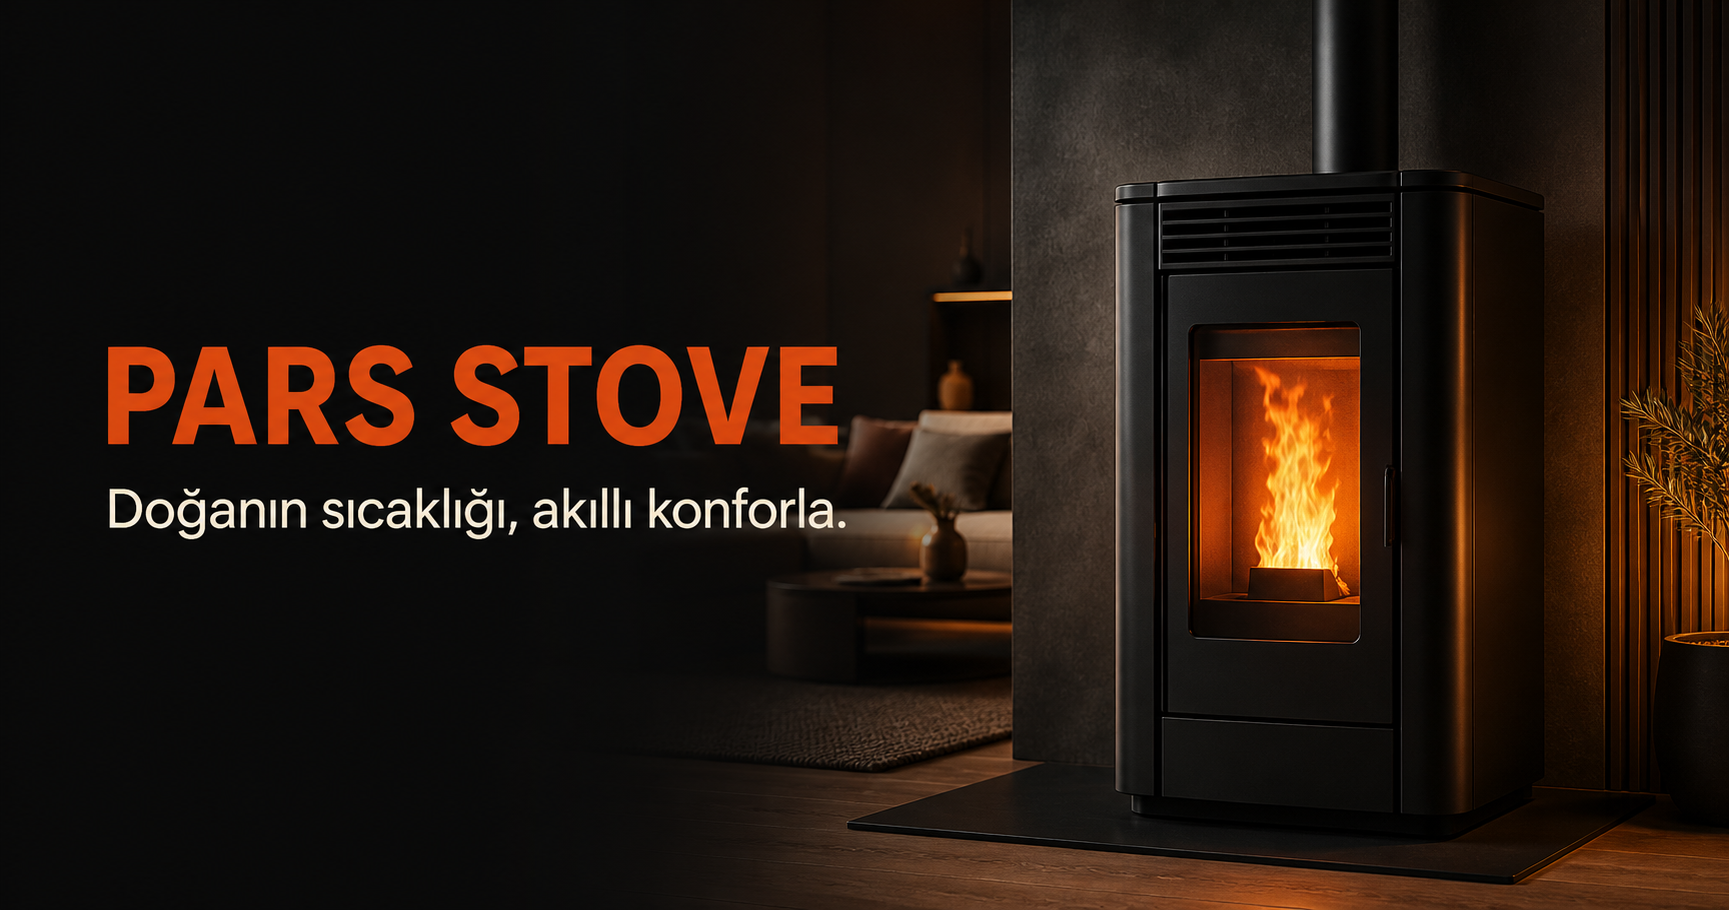
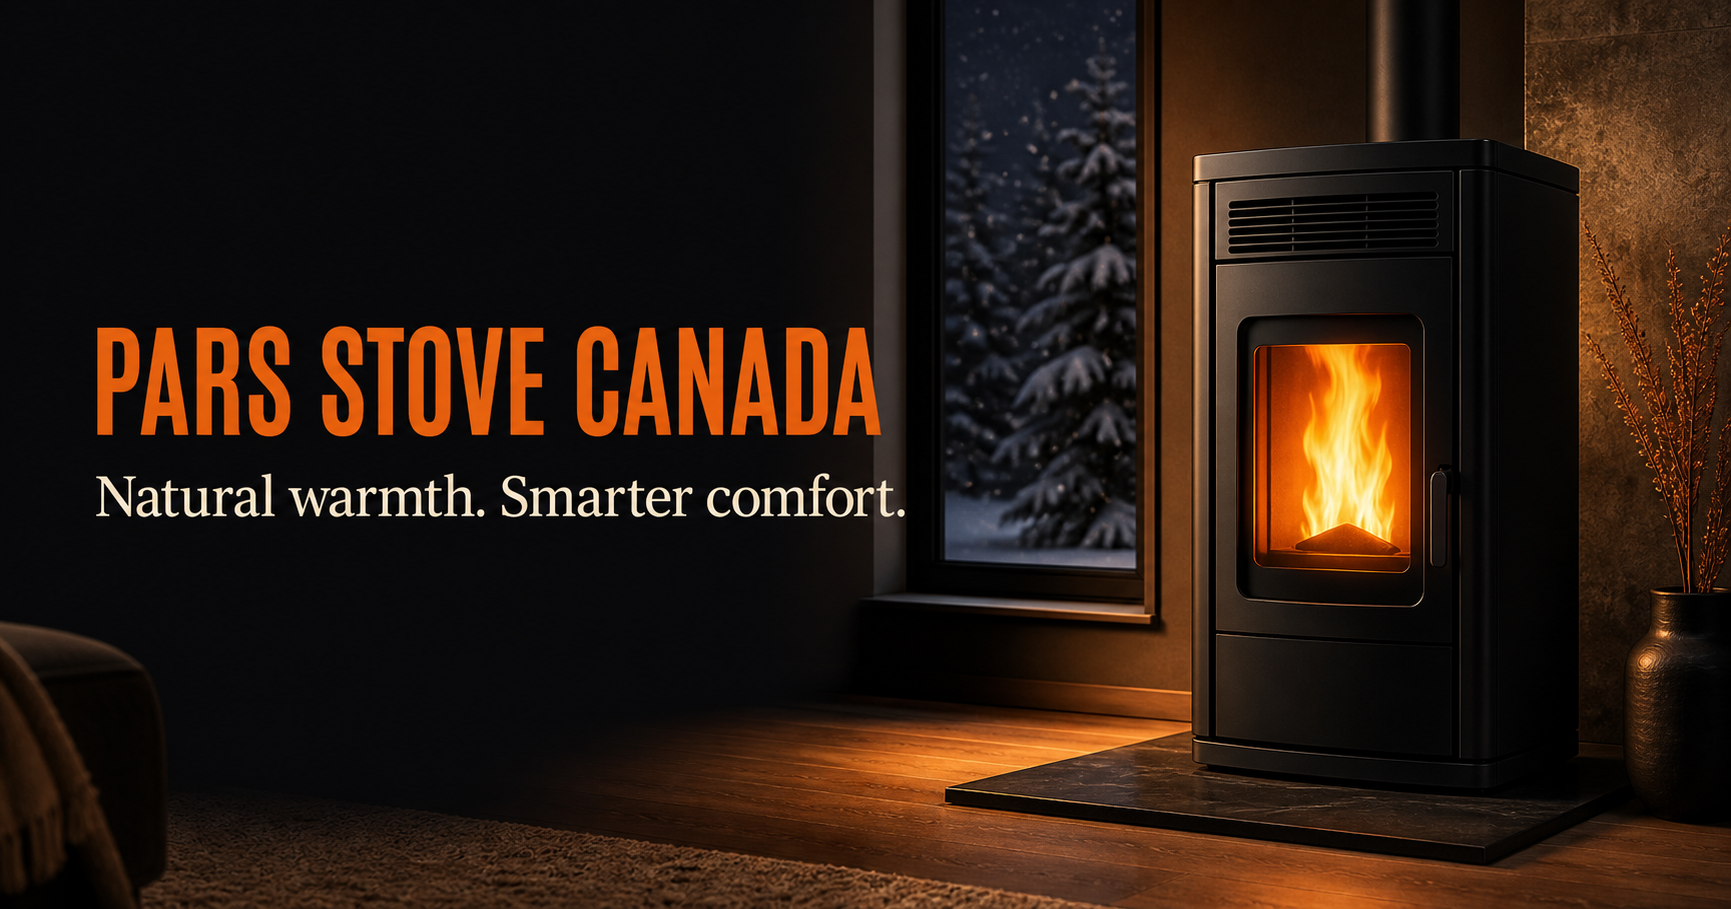
Localize Pars Stove for Canada

diff --git a/app/page.tsx b/app/page.tsx
@@ -3,16 +3,16 @@
 import { useState } from "react";
 
 const products = [
-  { name: "Pars P8 Compact", heat: "8 kW", area: "60–90 m²", price: "49.900 ₺", badge: "Çok Satan", tone: "graphite" },
-  { name: "Pars P12 Vision", heat: "12 kW", area: "90–130 m²", price: "64.900 ₺", badge: "Yeni", tone: "sand" },
-  { name: "Pars P18 Hydro", heat: "18 kW", area: "140–190 m²", price: "89.900 ₺", badge: "Kaloriferli", tone: "forest" },
+  { name: "Pars P8 Compact", heat: "27,000 BTU", area: "650–970 sq. ft.", price: "$3,499 CAD", badge: "Best Seller", tone: "graphite" },
+  { name: "Pars P12 Vision", heat: "41,000 BTU", area: "970–1,400 sq. ft.", price: "$4,599 CAD", badge: "New", tone: "sand" },
+  { name: "Pars P18 Hydro", heat: "61,000 BTU", area: "1,500–2,050 sq. ft.", price: "$6,299 CAD", badge: "Hydronic", tone: "forest" },
 ];
 
 const faqs = [
-  ["Evim için doğru sobayı nasıl seçerim?", "Metrekare, yalıtım ve bulunduğunuz bölgeye göre öneri sunuyoruz. Ücretsiz keşif formunu doldurmanız yeterli."],
-  ["Kurulum fiyata dahil mi?", "Standart kurulum paketleri ürün sayfasında açıkça belirtilir. Baca veya tesisat ihtiyacına göre ek fiyat önceden paylaşılır."],
-  ["Pellet sobası ne kadar yakıt tüketir?", "Kullanım kademesi ve yalıtıma bağlı olarak ortalama saatte 0,6–2,2 kg pellet tüketir."],
-  ["Teslimat ne kadar sürer?", "Stoklu ürünler Türkiye genelinde ortalama 3–7 iş gününde sevk edilir."],
+  ["How do I choose the right stove for my home?", "We recommend a model based on your square footage, insulation, climate zone, and local code requirements. Start with our free consultation."],
+  ["Is installation included?", "Standard installation options are shown on each product page. Any venting or electrical work is quoted clearly before your appointment."],
+  ["How much fuel does a pellet stove use?", "Depending on the heat setting and insulation, typical consumption is approximately 0.6–2.2 kg of pellets per hour."],
+  ["How long does delivery take?", "In-stock models typically ship within 3–7 business days in our Canadian service areas. Remote-area timing may vary."],
 ];
 
 function Flame() {
@@ -30,54 +30,54 @@ export default function Home() {
 
   return (
     <main>
-      <div className="topbar"><span>Türkiye geneli ücretsiz kargo</span><span>•</span><span>Peşin fiyatına 6 taksit</span><span>•</span><span>0850 555 72 77</span></div>
+      <div className="topbar"><span>Free shipping in select Canadian regions</span><span>•</span><span>Flexible financing available</span><span>•</span><span>Canadian customer support</span></div>
       <header>
-        <a className="brand" href="#" aria-label="Pars Stove ana sayfa"><Flame/><span><b>PARS</b><small>STOVE</small></span></a>
-        <nav className={menu ? "open" : ""} aria-label="Ana menü">
-          <a href="#urunler" onClick={() => setMenu(false)}>Sobalar</a><a href="#neden" onClick={() => setMenu(false)}>Neden Pars?</a><a href="#siparis" onClick={() => setMenu(false)}>Nasıl Alırım?</a><a href="#sss" onClick={() => setMenu(false)}>Destek</a>
+        <a className="brand" href="#" aria-label="Pars Stove home"><Flame/><span><b>PARS</b><small>STOVE</small></span></a>
+        <nav className={menu ? "open" : ""} aria-label="Main navigation">
+          <a href="#urunler" onClick={() => setMenu(false)}>Stoves</a><a href="#neden" onClick={() => setMenu(false)}>Why Pars?</a><a href="#siparis" onClick={() => setMenu(false)}>How It Works</a><a href="#sss" onClick={() => setMenu(false)}>Support</a>
         </nav>
-        <div className="header-actions"><button className="cart" aria-label={`Sepet, ${cart} ürün`}>Sepet <span>{cart}</span></button><a className="header-cta" href="#urunler">Ürünleri İncele</a><button className="menu" onClick={() => setMenu(!menu)} aria-label="Menüyü aç" aria-expanded={menu}>☰</button></div>
+        <div className="header-actions"><button className="cart" aria-label={`Cart, ${cart} items`}>Cart <span>{cart}</span></button><a className="header-cta" href="#urunler">Shop Stoves</a><button className="menu" onClick={() => setMenu(!menu)} aria-label="Open menu" aria-expanded={menu}>☰</button></div>
       </header>
 
       <section className="hero">
         <div className="hero-copy">
-          <div className="eyebrow"><span>●</span> EVİNİZİN YENİ SICAKLIK NOKTASI</div>
-          <h1>Doğanın sıcaklığı,<br/><em>akıllı konforla.</em></h1>
-          <p>Yüksek verimli pellet sobalarıyla evinizi zahmetsizce ısıtın. Online seçin, kapınıza gelsin, uzman ekibimiz kursun.</p>
-          <div className="hero-buttons"><a className="btn primary" href="#urunler">Sobamı Bul <span>→</span></a><a className="btn secondary" href="#neden">Nasıl çalışır? <span>▶</span></a></div>
-          <div className="hero-proof"><div><b>4.9</b><span className="stars">★★★★★</span><small>1.200+ mutlu müşteri</small></div><i/><div><b>2 yıl</b><small>Üretici garantisi</small></div><i/><div><b>%92+</b><small>Yüksek verim</small></div></div>
+          <div className="eyebrow"><span>●</span> MADE FOR CANADIAN WINTERS</div>
+          <h1>Natural warmth.<br/><em>Smarter comfort.</em></h1>
+          <p>Heat your home effortlessly with a high-efficiency pellet stove. Choose online, get it delivered, and have it installed by a qualified local professional.</p>
+          <div className="hero-buttons"><a className="btn primary" href="#urunler">Find My Stove <span>→</span></a><a className="btn secondary" href="#neden">How it works <span>▶</span></a></div>
+          <div className="hero-proof"><div><b>4.9</b><span className="stars">★★★★★</span><small>1,200+ happy homeowners</small></div><i/><div><b>2 years</b><small>Manufacturer warranty</small></div><i/><div><b>92%+</b><small>High efficiency</small></div></div>
         </div>
         <div className="hero-visual">
           <div className="warm-orb"/><div className="floor-shadow"/><Stove/>
-          <div className="float-card fc1"><span>♨</span><div><b>A+ Verimlilik</b><small>Daha az yakıt, daha çok ısı</small></div></div>
-          <div className="float-card fc2"><span>✓</span><div><b>Kolay Kurulum</b><small>Yetkili servis güvencesi</small></div></div>
+          <div className="float-card fc1"><span>♨</span><div><b>High Efficiency</b><small>More heat from less fuel</small></div></div>
+          <div className="float-card fc2"><span>✓</span><div><b>Qualified Installation</b><small>Trusted local professionals</small></div></div>
           <span className="spark s1">✦</span><span className="spark s2">·</span><span className="spark s3">✦</span>
         </div>
       </section>
 
       <section className="categories">
-        <div className="section-intro"><div><span className="kicker">İHTİYACINIZA UYGUN</span><h2>Her eve uygun bir <em>Pars</em> var.</h2></div><p>Kompakt yaşam alanlarından geniş evlere, ihtiyacınıza göre tasarlanmış yüksek verimli modeller.</p></div>
-        <div className="category-grid"><article><span className="cat-icon">⌂</span><div><h3>Hava Üflemeli</h3><p>Tek odada hızlı ve homojen ısı</p></div><a href="#urunler">→</a></article><article><span className="cat-icon">≋</span><div><h3>Kaloriferli</h3><p>Tüm evde radyatör konforu</p></div><a href="#urunler">→</a></article><article><span className="cat-icon">↯</span><div><h3>Kanallı Sistem</h3><p>Birden fazla odayı aynı anda ısıtın</p></div><a href="#urunler">→</a></article></div>
+        <div className="section-intro"><div><span className="kicker">BUILT AROUND YOUR HOME</span><h2>There’s a <em>Pars</em> for every space.</h2></div><p>High-efficiency models for everything from compact cabins and condos to large Canadian homes.</p></div>
+        <div className="category-grid"><article><span className="cat-icon">⌂</span><div><h3>Air Pellet Stoves</h3><p>Fast, even heat for open spaces</p></div><a href="#urunler">→</a></article><article><span className="cat-icon">≋</span><div><h3>Hydronic Stoves</h3><p>Whole-home radiator comfort</p></div><a href="#urunler">→</a></article><article><span className="cat-icon">↯</span><div><h3>Ducted Systems</h3><p>Warm multiple rooms at once</p></div><a href="#urunler">→</a></article></div>
       </section>
 
       <section className="products" id="urunler">
-        <div className="section-head"><div><span className="kicker">ÖNE ÇIKAN MODELLER</span><h2>En çok tercih edilenler</h2></div><a href="#urunler">Tümünü gör <span>→</span></a></div>
-        <div className="product-grid">{products.map((p) => <article className="product" key={p.name}><div className="product-image"><span className="badge">{p.badge}</span><button aria-label={`${p.name} favorilere ekle`}>♡</button><Stove tone={p.tone}/></div><div className="product-info"><div className="spec"><span>{p.heat}</span><i/> <span>{p.area}</span></div><h3>{p.name}</h3><div className="price-row"><div><small>Başlangıç fiyatı</small><b>{p.price}</b></div><button onClick={() => setCart(cart + 1)} aria-label={`${p.name} sepete ekle`}>Sepete Ekle</button></div></div></article>)}</div>
+        <div className="section-head"><div><span className="kicker">FEATURED MODELS</span><h2>Canadian favourites</h2></div><a href="#urunler">View all <span>→</span></a></div>
+        <div className="product-grid">{products.map((p) => <article className="product" key={p.name}><div className="product-image"><span className="badge">{p.badge}</span><button aria-label={`Add ${p.name} to favourites`}>♡</button><Stove tone={p.tone}/></div><div className="product-info"><div className="spec"><span>{p.heat}</span><i/> <span>{p.area}</span></div><h3>{p.name}</h3><div className="price-row"><div><small>Starting at</small><b>{p.price}</b></div><button onClick={() => setCart(cart + 1)} aria-label={`Add ${p.name} to cart`}>Add to Cart</button></div></div></article>)}</div>
       </section>
 
-      <section className="benefits" id="neden"><div className="benefit-visual"><div className="lounge"><span className="plant">♧</span><div className="side-table"/><Stove tone="sand"/></div><div className="saving"><b>%35’e varan</b><span>yakıt tasarrufu</span></div></div><div className="benefit-copy"><span className="kicker">NEDEN PELLET?</span><h2>Konforlu ısınmanın<br/><em>daha akıllı yolu.</em></h2><p>Odun sobasının sıcaklığını, modern teknolojinin kolaylığıyla buluşturduk. Siz sadece istediğiniz dereceyi seçin.</p><ul><li><b>Otomatik çalışma</b><span>Programlayın, eviniz siz gelmeden ısınsın.</span></li><li><b>Temiz ve çevreci</b><span>Düşük emisyon, sürdürülebilir yakıt.</span></li><li><b>Uzun yanma süresi</b><span>Tek dolumla 8–24 saat kesintisiz sıcaklık.</span></li></ul><a href="#siparis" className="text-link">Pellet sobasını keşfet <span>→</span></a></div></section>
+      <section className="benefits" id="neden"><div className="benefit-visual"><div className="lounge"><span className="plant">♧</span><div className="side-table"/><Stove tone="sand"/></div><div className="saving"><b>Up to 35%</b><span>fuel savings</span></div></div><div className="benefit-copy"><span className="kicker">WHY PELLET?</span><h2>A smarter way<br/><em>to stay warm.</em></h2><p>We bring together the warmth of a wood stove and the ease of modern technology. Simply set your preferred temperature.</p><ul><li><b>Automatic operation</b><span>Schedule it so your home is warm before you arrive.</span></li><li><b>Cleaner combustion</b><span>Lower emissions and renewable fuel options.</span></li><li><b>Long burn time</b><span>Enjoy 8–24 hours of steady heat from one fill.</span></li></ul><a href="#siparis" className="text-link">Explore pellet heating <span>→</span></a></div></section>
 
-      <section className="steps" id="siparis"><span className="kicker">3 KOLAY ADIMDA</span><h2>Sıcaklığa giden yol</h2><div className="step-grid"><article><b>01</b><span>▤</span><h3>Modelini seç</h3><p>Metrekarenize uygun sobayı bulun veya uzmanımıza danışın.</p></article><div className="step-line">→</div><article><b>02</b><span>▣</span><h3>Güvenle sipariş ver</h3><p>Güvenli ödeme ve taksit seçeneklerinden yararlanın.</p></article><div className="step-line">→</div><article><b>03</b><span>⚙</span><h3>Kurulsun, keyfini çıkar</h3><p>Yetkili ekibimiz teslimat ve kurulumu tamamlasın.</p></article></div></section>
+      <section className="steps" id="siparis"><span className="kicker">THREE EASY STEPS</span><h2>Your path to warmer winters</h2><div className="step-grid"><article><b>01</b><span>▤</span><h3>Choose your model</h3><p>Find the right output for your home or speak with our heating team.</p></article><div className="step-line">→</div><article><b>02</b><span>▣</span><h3>Order with confidence</h3><p>Use secure checkout and flexible Canadian financing options.</p></article><div className="step-line">→</div><article><b>03</b><span>⚙</span><h3>Install and enjoy</h3><p>A qualified professional completes installation to local requirements.</p></article></div></section>
 
-      <section className="guarantee"><div><span className="shield">✓</span><div><span className="kicker">PARS GÜVENCESİ</span><h2>Sadece soba değil,<br/>içiniz rahat olsun.</h2></div></div><ul><li><b>2 Yıl</b><span>Üretici garantisi</span></li><li><b>81 İl</b><span>Yaygın servis ağı</span></li><li><b>14 Gün</b><span>Kolay iade</span></li><li><b>7/24</b><span>Teknik destek</span></li></ul></section>
+      <section className="guarantee"><div><span className="shield">✓</span><div><span className="kicker">THE PARS PROMISE</span><h2>More than a stove.<br/>Complete peace of mind.</h2></div></div><ul><li><b>2 Years</b><span>Manufacturer warranty</span></li><li><b>Canada</b><span>Regional service partners</span></li><li><b>14 Days</b><span>Easy returns</span></li><li><b>Expert</b><span>Customer support</span></li></ul></section>
 
-      <section className="testimonials"><span className="kicker">GERÇEK EVLER, GERÇEK SICAKLIK</span><h2>Müşterilerimiz anlatıyor</h2><div className="review-grid"><article><span className="stars">★★★★★</span><p>“90 metrekare evimiz hem daha hızlı ısınıyor hem de odunla uğraşmıyoruz. Kurulum ekibi de çok titizdi.”</p><div><b>MK</b><span><strong>Murat K.</strong><small>Bolu • P12 Vision</small></span></div></article><article><span className="stars">★★★★★</span><p>“Siparişten iki gün sonra aradılar, her adımı anlattılar. İlk faturada farkı gördük. Gerçekten sessiz çalışıyor.”</p><div><b>SA</b><span><strong>Selin A.</strong><small>Bursa • P8 Compact</small></span></div></article><article><span className="stars">★★★★★</span><p>“Kaloriferli modeli müstakil evimize kurduk. Bütün odalar eşit ısınıyor. Parasının karşılığını fazlasıyla verdi.”</p><div><b>ET</b><span><strong>Emre T.</strong><small>Eskişehir • P18 Hydro</small></span></div></article></div></section>
+      <section className="testimonials"><span className="kicker">REAL HOMES, REAL WARMTH</span><h2>Homeowners are feeling the difference</h2><div className="review-grid"><article><span className="stars">★★★★★</span><p>“Our home heats up faster and we no longer have to manage firewood. The installation team was careful and professional.”</p><div><b>MK</b><span><strong>Michael K.</strong><small>Barrie, ON • P12 Vision</small></span></div></article><article><span className="stars">★★★★★</span><p>“They walked us through every step. We noticed the difference on our first heating bill, and the stove is remarkably quiet.”</p><div><b>SA</b><span><strong>Sarah A.</strong><small>Kelowna, BC • P8 Compact</small></span></div></article><article><span className="stars">★★★★★</span><p>“We installed the hydronic model in our rural home. Every room stays comfortable, even on the coldest mornings.”</p><div><b>ET</b><span><strong>Eric T.</strong><small>Sherbrooke, QC • P18 Hydro</small></span></div></article></div></section>
 
-      <section className="faq" id="sss"><div><span className="kicker">AKLINIZDA KALMASIN</span><h2>Sıkça sorulan<br/><em>sorular.</em></h2><p>Aradığınız cevabı bulamadınız mı?</p><a href="tel:08505557277">Bize ulaşın →</a></div><div className="accordion">{faqs.map((f, i) => <article key={f[0]} className={openFaq === i ? "active" : ""}><button onClick={() => setOpenFaq(openFaq === i ? -1 : i)} aria-expanded={openFaq === i}><span>{f[0]}</span><b>{openFaq === i ? "−" : "+"}</b></button><p>{f[1]}</p></article>)}</div></section>
+      <section className="faq" id="sss"><div><span className="kicker">GOOD TO KNOW</span><h2>Frequently asked<br/><em>questions.</em></h2><p>Still looking for an answer?</p><a href="#final-contact">Talk to our team →</a></div><div className="accordion">{faqs.map((f, i) => <article key={f[0]} className={openFaq === i ? "active" : ""}><button onClick={() => setOpenFaq(openFaq === i ? -1 : i)} aria-expanded={openFaq === i}><span>{f[0]}</span><b>{openFaq === i ? "−" : "+"}</b></button><p>{f[1]}</p></article>)}</div></section>
 
-      <section className="final-cta"><div><Flame/><span className="spark cs1">✦</span><span className="spark cs2">✦</span></div><span className="kicker">BU KIŞ DAHA SICAK</span><h2>Evinize en uygun Pars’ı<br/>birlikte bulalım.</h2><p>Ücretsiz danışmanlık alın, ihtiyacınıza uygun modeli ve kurulum planını birlikte belirleyelim.</p><div><a className="btn light" href="#urunler">Modelleri İncele <span>→</span></a><a className="btn outline" href="tel:08505557277">0850 555 72 77</a></div></section>
+      <section className="final-cta" id="final-contact"><div><Flame/><span className="spark cs1">✦</span><span className="spark cs2">✦</span></div><span className="kicker">A WARMER CANADIAN WINTER</span><h2>Let’s find the right Pars<br/>for your home.</h2><p>Get a free consultation and a personalized recommendation based on your space, climate, and installation needs.</p><div><a className="btn light" href="#urunler">Explore Models <span>→</span></a><a className="btn outline" href="#footer-contact">Request a Consultation</a></div></section>
 
-      <footer><div className="footer-main"><div><a className="brand footer-brand" href="#"><Flame/><span><b>PARS</b><small>STOVE</small></span></a><p>Sürdürülebilir, verimli ve konforlu ısınma çözümleri.</p><div className="socials"><a href="#" aria-label="Instagram">ig</a><a href="#" aria-label="Facebook">f</a><a href="#" aria-label="Youtube">▶</a></div></div><div><b>Ürünler</b><a href="#urunler">Hava Üflemeli</a><a href="#urunler">Kaloriferli</a><a href="#urunler">Kanallı Sistem</a><a href="#urunler">Pellet Yakıtı</a></div><div><b>Kurumsal</b><a href="#neden">Hakkımızda</a><a href="#neden">Neden Pars?</a><a href="#">Bayilerimiz</a><a href="#">Blog</a></div><div><b>Destek</b><a href="#siparis">Teslimat & Kurulum</a><a href="#sss">Garanti & İade</a><a href="#sss">Sıkça Sorulanlar</a><a href="tel:08505557277">İletişim</a></div><div className="newsletter"><b>Sıcak fırsatları kaçırmayın</b><p>Kampanya ve yeniliklerden haberdar olun.</p><form onSubmit={(e) => e.preventDefault()}><input type="email" placeholder="E-posta adresiniz" aria-label="E-posta adresiniz"/><button aria-label="Kaydol">→</button></form></div></div><div className="footer-bottom"><span>© 2026 Pars Stove. Tüm hakları saklıdır.</span><div><a href="#">Gizlilik</a><a href="#">Mesafeli Satış</a><a href="#">KVKK</a></div><span>Güvenli Ödeme • Visa • Mastercard</span></div></footer>
+      <footer id="footer-contact"><div className="footer-main"><div><a className="brand footer-brand" href="#"><Flame/><span><b>PARS</b><small>STOVE</small></span></a><p>Sustainable, efficient heating comfort made for Canadian homes.</p><div className="socials"><a href="#" aria-label="Instagram">ig</a><a href="#" aria-label="Facebook">f</a><a href="#" aria-label="YouTube">▶</a></div></div><div><b>Products</b><a href="#urunler">Air Pellet Stoves</a><a href="#urunler">Hydronic Stoves</a><a href="#urunler">Ducted Systems</a><a href="#urunler">Pellet Fuel</a></div><div><b>Company</b><a href="#neden">About Us</a><a href="#neden">Why Pars?</a><a href="#">Dealer Network</a><a href="#">Journal</a></div><div><b>Support</b><a href="#siparis">Delivery & Installation</a><a href="#sss">Warranty & Returns</a><a href="#sss">FAQs</a><a href="#final-contact">Contact</a></div><div className="newsletter"><b>Get warm offers in your inbox</b><p>Be first to hear about new models and seasonal offers.</p><form onSubmit={(e) => e.preventDefault()}><input type="email" placeholder="Email address" aria-label="Email address"/><button aria-label="Subscribe">→</button></form></div></div><div className="footer-bottom"><span>© 2026 Pars Stove Canada. All rights reserved.</span><div><a href="#">Privacy</a><a href="#">Terms of Sale</a><a href="#">Accessibility</a></div><span>Secure Checkout • Visa • Mastercard</span></div></footer>
     </main>
   );
 }

diff --git a/app/layout.tsx b/app/layout.tsx
@@ -5,16 +5,16 @@ import "./globals.css";
 const geist = Geist({ variable: "--font-geist", subsets: ["latin"] });
 
 export const metadata: Metadata = {
-  title: "Pars Stove | Akıllı Pellet Sobaları",
-  description: "Yüksek verimli Pars pellet sobalarını online keşfedin; güvenli sipariş, hızlı teslimat ve uzman kurulum.",
+  title: "Pars Stove Canada | High-Efficiency Pellet Stoves",
+  description: "Shop high-efficiency Pars pellet stoves in Canada with secure ordering, regional delivery, and qualified installation support.",
   openGraph: {
-    title: "Pars Stove | Akıllı Pellet Sobaları",
-    description: "Doğanın sıcaklığı, akıllı konforla.",
-    images: [{ url: "/og.png", width: 1200, height: 630, alt: "Pars Stove pellet sobası" }],
+    title: "Pars Stove Canada | High-Efficiency Pellet Stoves",
+    description: "Natural warmth. Smarter comfort.",
+    images: [{ url: "/og.png", width: 1200, height: 630, alt: "Pars Stove pellet stove in a Canadian home" }],
   },
   twitter: { card: "summary_large_image", images: ["/og.png"] },
 };
 
 export default function RootLayout({ children }: Readonly<{ children: React.ReactNode }>) {
-  return <html lang="tr"><body className={geist.variable}>{children}</body></html>;
+  return <html lang="en-CA"><body className={geist.variable}>{children}</body></html>;
 }
